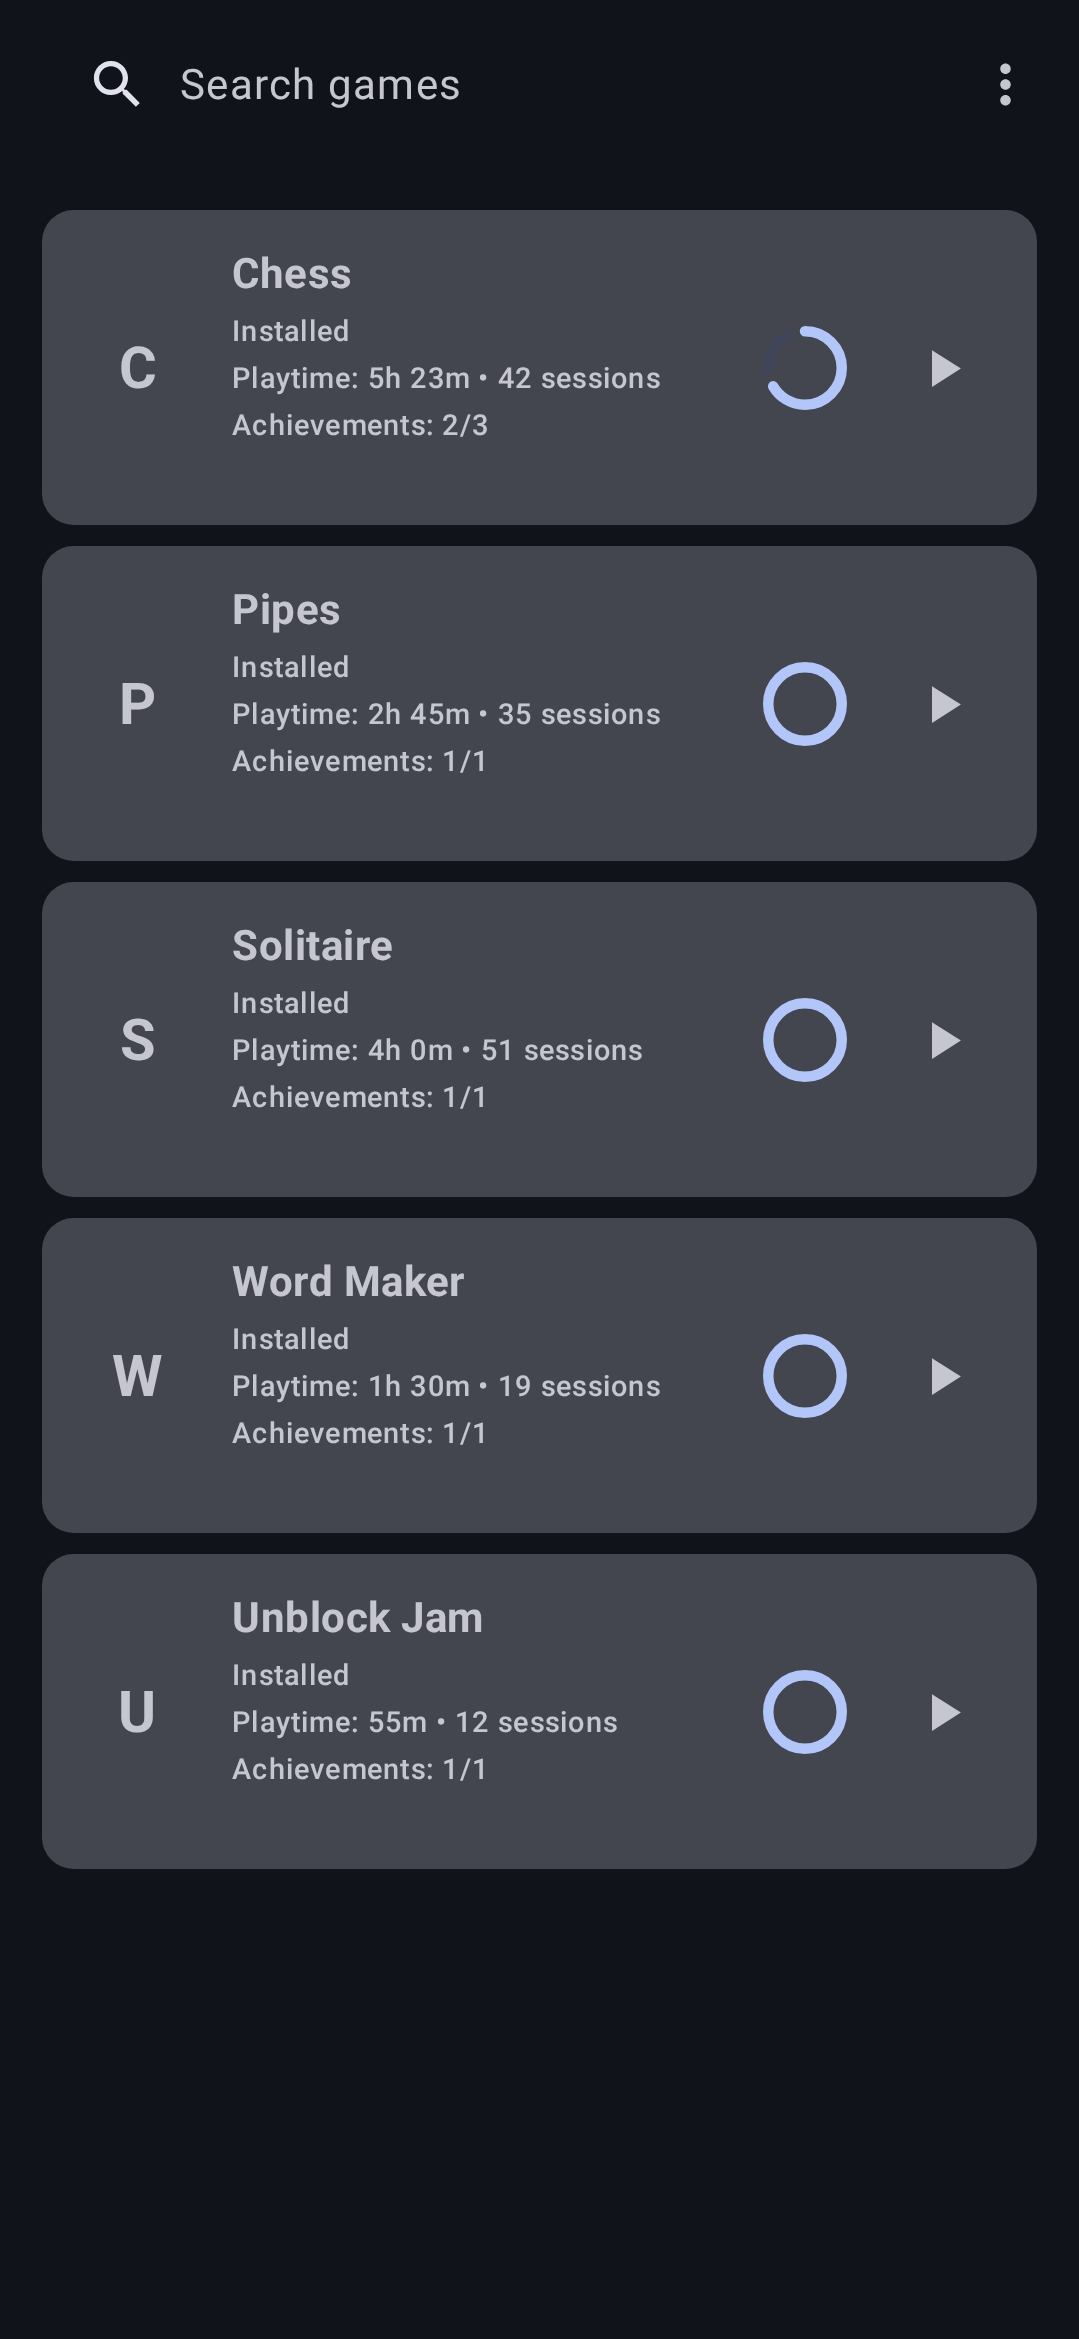
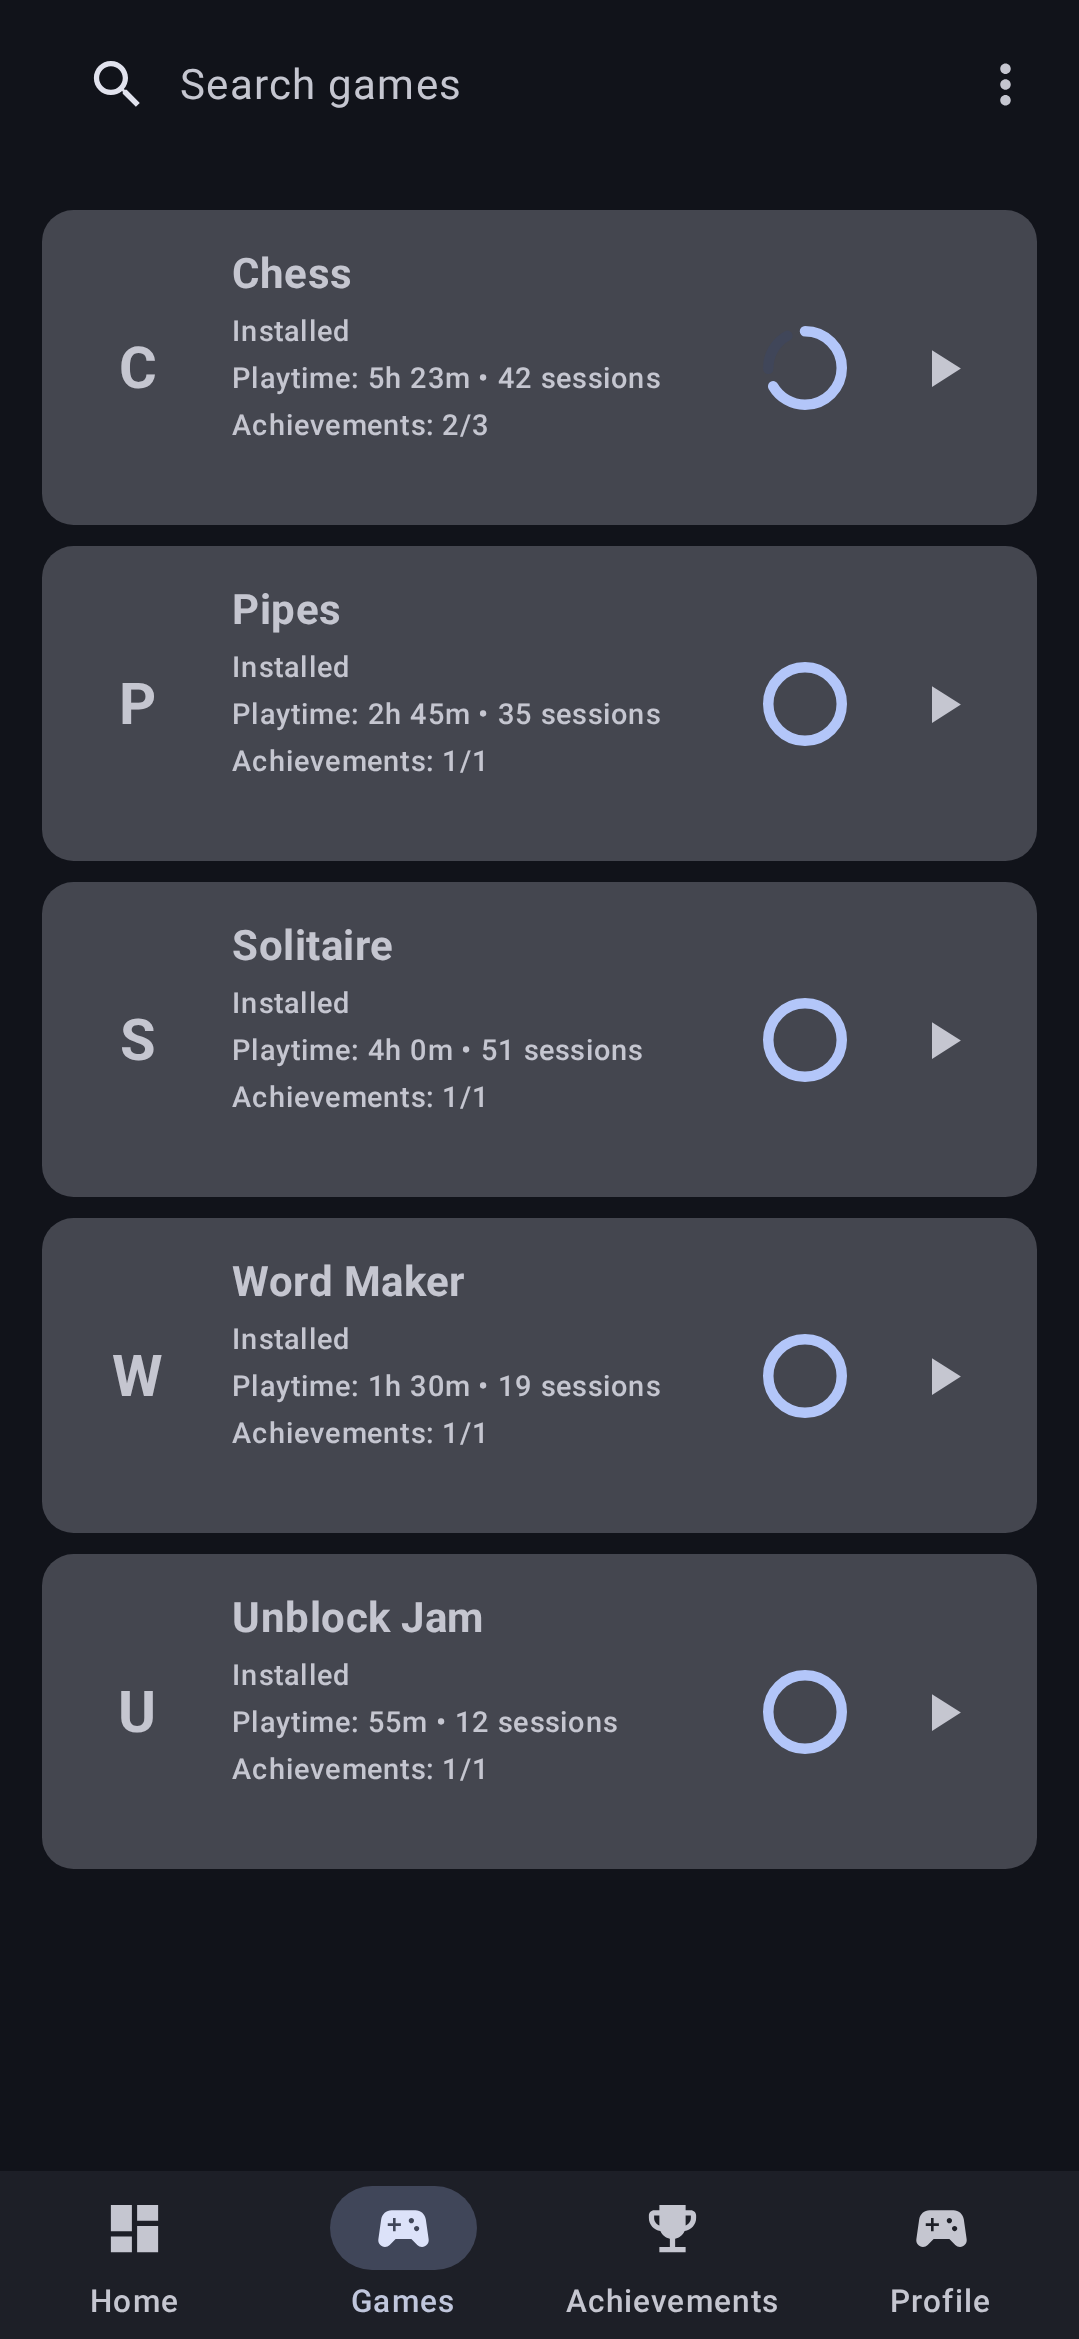
games-hub: preview tab chrome in screenshots

diff --git a/games/hub/src/screenshotTest/kotlin/com/vayunmathur/games/hub/ui/screens/MetadataPreviews.kt b/games/hub/src/screenshotTest/kotlin/com/vayunmathur/games/hub/ui/screens/MetadataPreviews.kt
@@ -4,6 +4,7 @@ import androidx.compose.foundation.layout.Box
 import androidx.compose.foundation.layout.Row
 import androidx.compose.foundation.layout.fillMaxHeight
 import androidx.compose.foundation.layout.fillMaxSize
+import androidx.compose.foundation.pager.rememberPagerState
 import androidx.compose.runtime.Composable
 import androidx.compose.ui.Modifier
 import androidx.compose.ui.tooling.preview.Preview
@@ -12,6 +13,7 @@ import com.vayunmathur.games.hub.data.YuuUiModel
 import com.vayunmathur.games.hub.data.entities.ActivityEventEntity
 import com.vayunmathur.games.hub.data.entities.HubGameEntity
 import com.vayunmathur.games.hub.data.entities.YuuFaceConfig
+import com.vayunmathur.games.hub.ui.components.AvatarIcon
 import com.vayunmathur.games.hub.ui.yuu.YuuEditorActions
 import com.vayunmathur.games.hub.ui.yuu.YuuEditorUiState
 import com.vayunmathur.games.hub.ui.yuu.YuuListActions
@@ -24,6 +26,12 @@ import com.vayunmathur.games.hub.util.ProfileActions
 import com.vayunmathur.games.hub.util.ProfileUiState
 import com.vayunmathur.games.hub.viewmodel.CrossGameStats
 import com.vayunmathur.library.ui.DynamicTheme
+import com.vayunmathur.library.ui.IconDashboard
+import com.vayunmathur.library.ui.IconEmojiEvents
+import com.vayunmathur.library.ui.IconSportsEsports
+import com.vayunmathur.library.ui.PagerTab
+import com.vayunmathur.library.ui.TabStyle
+import com.vayunmathur.library.ui.TabbedPagerScaffold
 
 /** Phone-shaped, roughly 1080x2340 at xxhdpi — comfortably above the F-Droid minimum. */
 private const val PHONE = "spec:width=411dp,height=891dp,dpi=420"
@@ -85,59 +93,92 @@ class MetadataPreviews {
     @Preview(name = "1-dashboard", device = PHONE, group = "phone", showSystemUi = true)
     @Composable
     fun Preview1Dashboard() {
-        DynamicTheme(darkTheme = true) {
-            DashboardScreen(
-                state = DashboardUiState(
-                    playerName = "Alex Rivera",
-                    level = 4,
-                    title = "Casual Gamer",
-                    totalXp = 1225,
-                    stats = stats,
-                    recentlyPlayed = games.take(3),
-                    recentActivity = listOf(
-                        ActivityEventEntity(id = 1, type = ActivityEventEntity.TYPE_SESSION_COMPLETED, gameId = "chess", title = "Played Chess", description = "Session 25m", timestamp = now - HOUR),
-                        ActivityEventEntity(id = 2, type = ActivityEventEntity.TYPE_ACHIEVEMENT_UNLOCKED, gameId = "solitaire", title = "Card Shark", description = "Won 10 games", timestamp = now - 2 * HOUR),
-                        ActivityEventEntity(id = 3, type = ActivityEventEntity.TYPE_LEVEL_UP, title = "Reached level 4", description = "Casual Gamer", timestamp = now - 6 * HOUR),
-                    ),
-                    achievementProgressByGame = achievementProgress,
-                    installedGameIds = games.mapTo(mutableSetOf()) { it.gameId },
-                ),
-                actions = DashboardActions.Noop,
-            )
-        }
+        ChromePreview(selectedTab = 0)
     }
 
     @PreviewTest
     @Preview(name = "2-games", device = PHONE, group = "phone", showSystemUi = true)
     @Composable
     fun Preview2Games() {
-        DynamicTheme(darkTheme = true) {
-            GamesListScreen(
-                state = GamesListUiState(
-                    games = games,
-                    achievementProgressByGame = achievementProgress,
-                    installedGameIds = games.mapTo(mutableSetOf()) { it.gameId },
-                ),
-                actions = GamesListActions.Noop,
-            )
-        }
+        ChromePreview(selectedTab = 1)
     }
 
     @PreviewTest
     @Preview(name = "3-profile", device = PHONE, group = "phone", showSystemUi = true)
     @Composable
     fun Preview3Profile() {
-        DynamicTheme(darkTheme = true) {
-            ProfileScreen(
-                state = ProfileUiState(
-                    playerName = "Alex Rivera",
-                    avatarSymbol = "stadia_controller",
-                    level = 4,
-                    title = "Casual Gamer",
-                    totalXp = 1225,
-                    stats = stats,
+        ChromePreview(selectedTab = 3)
+    }
+
+    @Composable
+    private fun DashboardContent() {
+        DashboardScreen(
+            state = DashboardUiState(
+                playerName = "Alex Rivera",
+                level = 4,
+                title = "Casual Gamer",
+                totalXp = 1225,
+                stats = stats,
+                recentlyPlayed = games.take(3),
+                recentActivity = listOf(
+                    ActivityEventEntity(id = 1, type = ActivityEventEntity.TYPE_SESSION_COMPLETED, gameId = "chess", title = "Played Chess", description = "Session 25m", timestamp = now - HOUR),
+                    ActivityEventEntity(id = 2, type = ActivityEventEntity.TYPE_ACHIEVEMENT_UNLOCKED, gameId = "solitaire", title = "Card Shark", description = "Won 10 games", timestamp = now - 2 * HOUR),
+                    ActivityEventEntity(id = 3, type = ActivityEventEntity.TYPE_LEVEL_UP, title = "Reached level 4", description = "Casual Gamer", timestamp = now - 6 * HOUR),
                 ),
-                actions = ProfileActions.Noop,
+                achievementProgressByGame = achievementProgress,
+                installedGameIds = games.mapTo(mutableSetOf()) { it.gameId },
+            ),
+            actions = DashboardActions.Noop,
+        )
+    }
+
+    @Composable
+    private fun GamesContent() {
+        GamesListScreen(
+            state = GamesListUiState(
+                games = games,
+                achievementProgressByGame = achievementProgress,
+                installedGameIds = games.mapTo(mutableSetOf()) { it.gameId },
+            ),
+            actions = GamesListActions.Noop,
+        )
+    }
+
+    @Composable
+    private fun ProfileContent() {
+        ProfileScreen(
+            state = ProfileUiState(
+                playerName = "Alex Rivera",
+                avatarSymbol = "stadia_controller",
+                level = 4,
+                title = "Casual Gamer",
+                totalXp = 1225,
+                stats = stats,
+            ),
+            actions = ProfileActions.Noop,
+        )
+    }
+
+    /**
+     * The app's real tab chrome around preview screen content: the same
+     * [TabbedPagerScaffold] with the same Home/Games/Achievements/Profile tabs
+     * the activity declares (release build — no dev-only Yuu tab). Achievements
+     * needs its ViewModel, so it shows an empty page (never visible — only the
+     * selected tab renders); the rest are the real screens with literal state.
+     */
+    @Composable
+    private fun ChromePreview(selectedTab: Int) {
+        DynamicTheme(darkTheme = true) {
+            val tabs = listOf(
+                PagerTab("Home", { IconDashboard() }) { DashboardContent() },
+                PagerTab("Games", { IconSportsEsports() }) { GamesContent() },
+                PagerTab("Achievements", { IconEmojiEvents() }) { Box(Modifier.fillMaxSize()) },
+                PagerTab("Profile", { AvatarIcon(symbol = "stadia_controller") }) { ProfileContent() },
+            )
+            TabbedPagerScaffold(
+                tabs = tabs,
+                pagerState = rememberPagerState(initialPage = selectedTab, pageCount = { tabs.size }),
+                tabStyle = TabStyle.BottomNav,
             )
         }
     }
